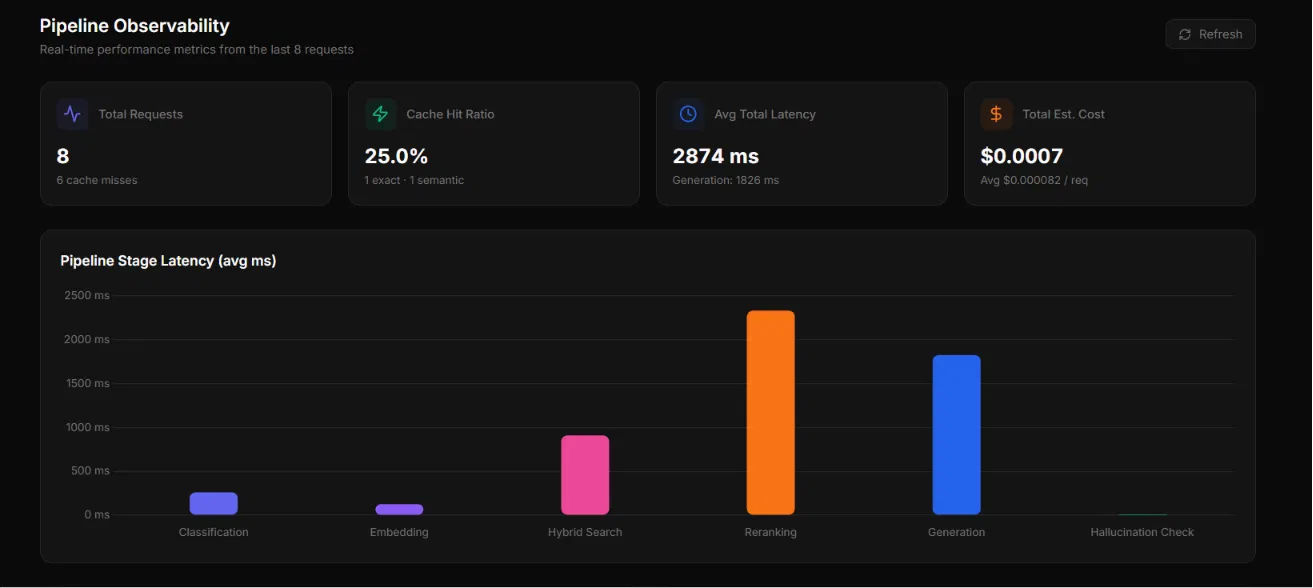
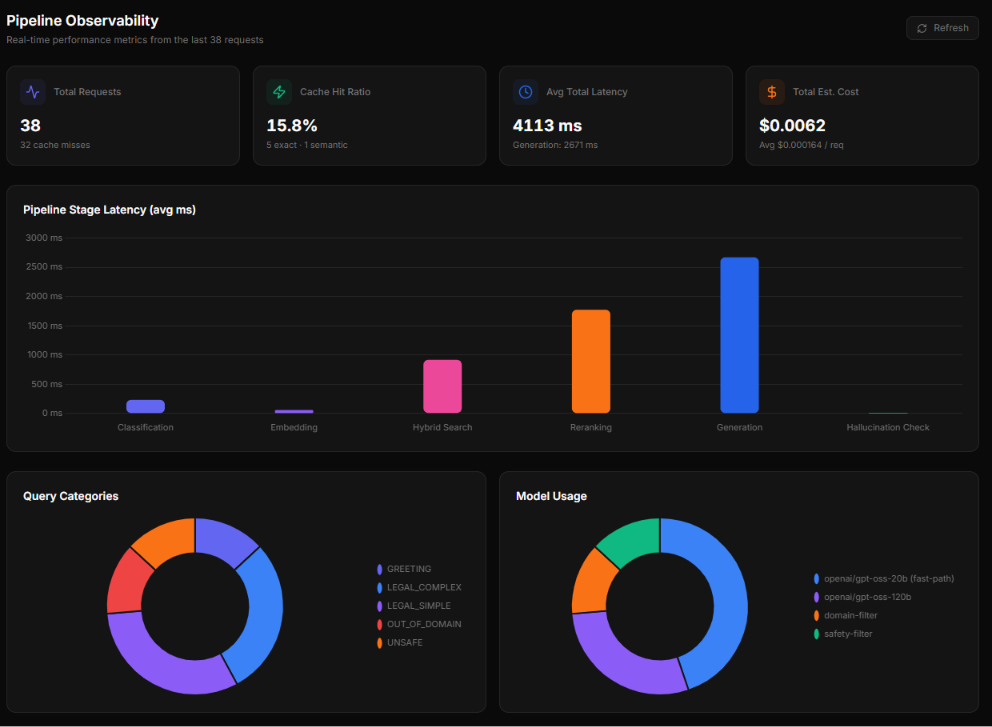
docs: update README with real performance metrics and design decisions

diff --git a/README.md b/README.md
@@ -2,7 +2,7 @@
 
 An AI-powered legal chatbot that helps Indian citizens understand their rights, laws, and legal procedures — grounded in official Indian legal documents with zero hallucination tolerance.
 
-![Vectors](https://img.shields.io/badge/Legal%20Vectors-3400%2B-blue)
+![Vectors](https://img.shields.io/badge/Legal%20Vectors-6800%2B-blue)
 ![Next.js](https://img.shields.io/badge/Next.js-14-black)
 ![FastAPI](https://img.shields.io/badge/FastAPI-Python%203.11-green)
 ![Firebase](https://img.shields.io/badge/Auth-Firebase-orange)
@@ -182,16 +182,70 @@ and logged failure modes.
 * A 20-case labeled test set spanning all 7 corpus sources, plus
   deliberately out-of-scope topics (inheritance, patents, family
   law) as negative controls
-* 5 custom lightweight metrics computed per test case:
-  keyword coverage, context precision, context recall (proxy),
-  answer relevance, and faithfulness (derived from the
-  hallucination checker)
 * Runs via `python -m backend.evaluation.run_eval`, producing a
   full JSON report and console summary
-* Out-of-scope test cases correctly show near-zero context
-  precision and low faithfulness, confirming the metrics
-  discriminate real quality rather than trivially returning high
-  scores
+
+| Metric              | Score |
+|---------------------|-------|
+| Keyword Coverage     | 0.755 |
+| Context Precision    | 0.459 |
+| Context Recall       | 0.435 |
+| Answer Relevance     | 0.837 |
+| Faithfulness         | 0.624 |
+| Classification Accuracy | 19/20 (95%)* |
+
+*\*tc_016 (patent application) misclassified as LEGAL_SIMPLE instead of LEGAL_COMPLEX (known boundary case).*
+
+### Retrieval Method Comparison
+
+Measured on 17 retrieval-eligible test cases using `benchmark_retrieval.py`:
+
+| Method | Avg Recall@5 | Avg Latency (ms) |
+|---|---|---|
+| Dense only | 0.385 | 199.7ms |
+| BM25 only | 0.357 | 32.9ms |
+| Hybrid (RRF) | 0.456 | 201.2ms |
+| Hybrid + Reranker | 0.447 | 1106.2ms |
+
+> [!NOTE]
+> Hybrid search significantly improves recall over dense-only or BM25-only by fusing exact keyword matching with semantic similarity. 
+> 
+> Note: recall@5 measures whether relevant documents were retrieved at all, not how well-ordered they are. The reranker is not expected to improve this metric — its purpose is improving precision at the top of the ranked list and reducing noisy context passed to the LLM, which is better reflected in the context_precision and faithfulness metrics from the evaluation pipeline above, not in recall@5. This benchmark shows a real latency/recall tradeoff worth being explicit about rather than assuming reranking is a universal improvement.
+
+### Pipeline Latency Breakdown
+
+Measured from live observability events (N=38) using `generate_latency_report.py`:
+
+| Stage | Avg (ms) | % of Total |
+|---|---|---|
+| Classification | 232.2ms | 5.6% |
+| Embedding | 35.5ms | 0.9% |
+| Hybrid Search | 434.9ms | 10.6% |
+| Reranking | 840.1ms | 20.4% |
+| Broadened Retry | 1022.7ms | 24.9% |
+| Generation | 1546.5ms | 37.6% |
+| Hallucination Check | 1.3ms | 0.0% |
+| **Total** | **4113.1ms** | **100.0%** |
+
+*(Note: Stage averages are calculated unconditionally across all N requests so percentages sum cleanly to 100%. Because cache hits skip retrieval and generation, the raw averages for those specific stages during a cache miss are actually higher than shown here).*
+
+### Cost Analysis
+
+Estimated API cost savings vs baseline (N=38 events) using `cost_analysis.py`:
+
+| Scenario | Est. Cost | Savings vs Baseline |
+|---|---|---|
+| Naive (no routing, no cache) | $0.004620 | — |
+| Routing only (no cache) | $0.003217 | 30.4% |
+| Routing + Caching (current) | $0.002709 | 41.4% |
+
+### Naive RAG vs JustiBot
+
+**Naive RAG:**
+Query → Dense search → LLM → Answer
+
+**JustiBot:**
+Query → Classify → Hybrid search → Rerank → Confidence gate → Route to model → Generate → Verify → Answer
 
 ### Confidence-Gated (Agentic) Retrieval
 
@@ -217,6 +271,17 @@ and logged failure modes.
   request
 * Built entirely on infrastructure already in use (Upstash Redis)
   — no new paid service required
+
+## Design Decisions
+
+| Problem | Decision | Why |
+|---|---|---|
+| Dense retrieval alone misses exact legal terms (section numbers, act names) | Hybrid retrieval (dense + BM25 + RRF) | BM25 catches exact keyword matches dense embeddings can miss |
+| Reranker trained on conversational text scores formal legal text poorly in absolute terms | Relative score threshold instead of absolute | Investigated via controlled experiment — absolute scores were domain-miscalibrated but relative ranking remained meaningful |
+| Every query hitting the largest model wastes cost on simple lookups | 2-tier LLM router based on query classification | Routes simple/greeting queries to a smaller, faster model |
+| Zero-shot classification confused BNS/BNSS with out-of-domain law | Corpus-aware context injection + few-shot examples | Raised classification accuracy from 45% to 95%, verified via eval pipeline |
+| LLMs can cite plausible-sounding but ungrounded legal sections | Citation-grounding hallucination checker | Pure text-analysis, no extra LLM call, near-zero added latency |
+| Repeated/similar questions re-run the full pipeline unnecessarily | Exact + semantic Redis caching | ~12x speedup on cache hit, verified via observability data |
 
 ---
 